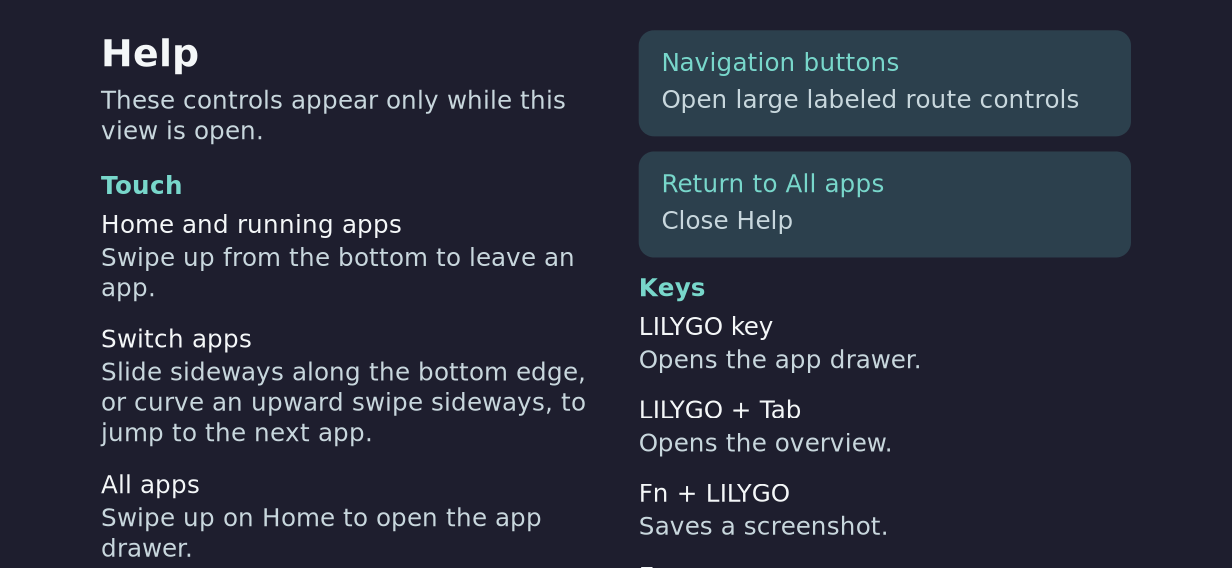
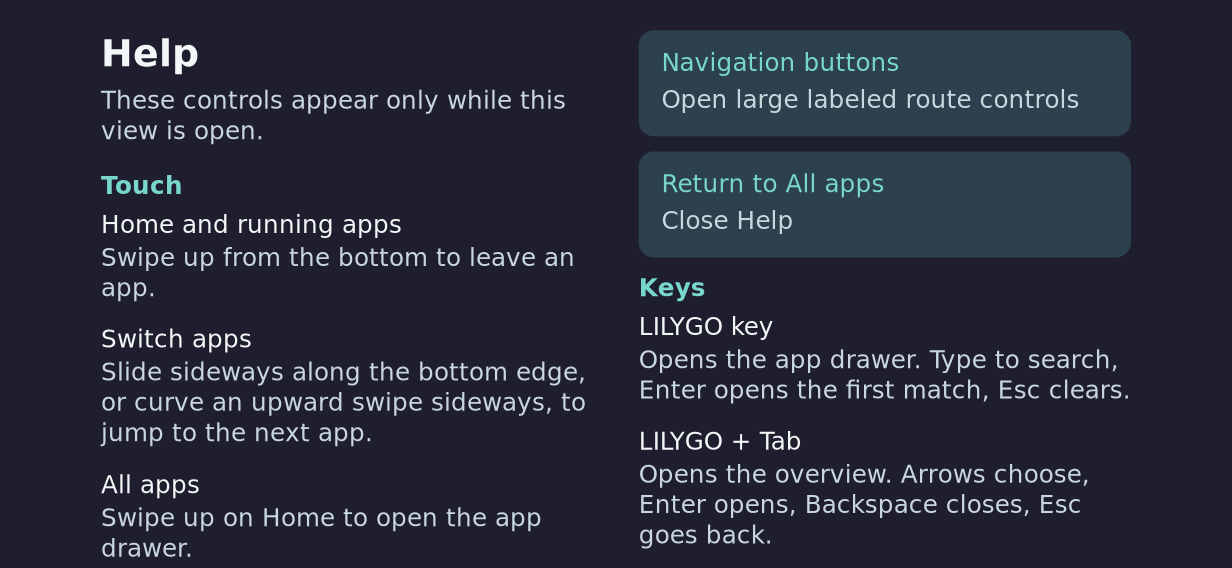
Describe the drawer's key search and the overview's keys in Help

Changed region(s): [[0.5244, 0.5986, 0.9253, 0.9577]]

diff --git a/nix/rust-shell-client/src/help.rs b/nix/rust-shell-client/src/help.rs
@@ -48,8 +48,14 @@ pub const GUIDE: &[(&str, &str)] = &[
         "Keyboard",
         "Swipe up with two fingers at the bottom to show it. Drag its handle down to hide it.",
     ),
-    ("LILYGO key", "Opens the app drawer."),
-    ("LILYGO + Tab", "Opens the overview."),
+    (
+        "LILYGO key",
+        "Opens the app drawer. Type to search, Enter opens the first match, Esc clears.",
+    ),
+    (
+        "LILYGO + Tab",
+        "Opens the overview. Arrows choose, Enter opens, Backspace closes, Esc goes back.",
+    ),
     ("Fn + LILYGO", "Saves a screenshot."),
     (
         "Esc",

diff --git a/docs/blob-inventory.md b/docs/blob-inventory.md
@@ -2241,10 +2241,9 @@ DATA a2c14dbe49dfc069aaa1697a9e4dbd39fac7f4ba4da29228b8651c8683d091d6 docs/evide
 DATA ee7513ae8fcfc031781673cfef7cab622fc831f615df553c9507c0bea46f6b12 docs/evidence/base-keys/board/keys-drawer-open.png
 DATA 10f202da0963924b537d5a768e30ff7a30ae1309fb52204edbbbf8bec4c0ec0b docs/evidence/base-keys/board/keys-drawer-ti.png
 DATA 97ca6176dfc6c5e8a5cdbe45e807840855e652b0ea29cad1c30245d3a4270b0c docs/evidence/base-keys/board/keys-overview.png
-||||||| parent of 12b3c404 (List the gestures and keys in Help as Touch and Keys groups)
-DATA b029a424e430376a5c2585c90fcec5423ecd637ac40c6e88a641be47fa8def00 docs/evidence/help-refresh/host/help-landscape-1232x568-end.png
-DATA 9b2f1e68bfccac9ae19112c283ada130eb49a946910ad5076370ccee931b1ec8 docs/evidence/help-refresh/host/help-landscape-1232x568-top.png
-DATA 2f77209944164ceb779e0f50f5cfd726a5b14adf8eadbfefd87d4aa14dd1bcbd docs/evidence/help-refresh/host/help-portrait-568x1232-end.png
+DATA fac69f720ae8595aa5c6c9e8fe1c404cdc6bbff7da2014b551a3f57ec3055661 docs/evidence/help-refresh/host/help-landscape-1232x568-end.png
+DATA 4df953a8f63c648fb98e4d9b3f3384aa875ad7aeb4f9a0825ff1c264de0f3eb4 docs/evidence/help-refresh/host/help-landscape-1232x568-top.png
+DATA b7b8131dadb638854b5f0d0cadb4cd8d4bf3588ea16c73134f3ff076cd5bce8e docs/evidence/help-refresh/host/help-portrait-568x1232-end.png
 DATA e852cf5374353cfd8f06fab09aa5553df316da619c36590bafd73458bda0934d docs/evidence/help-refresh/host/help-portrait-568x1232-top.png
 ```
 
@@ -4161,14 +4160,13 @@ Native `grim` captures of the key-focused drawer search and the overview under i
[3 lines of base64/hex data omitted]
-||||||| parent of 12b3c404 (List the gestures and keys in Help as Touch and Keys groups)
 ## Help refresh host renders, 2026-10-27
 
 Host renders of Help's Touch and Keys groups from `render_help_refresh`; see `docs/evidence/help-refresh/README.md`.
 
 | Path | Bytes | Class | SHA256 |
 | --- | ---: | --- | --- |
[7 lines of base64/hex data omitted]

diff --git a/openspec/changes/the-help-page-lists-the-gestures-and-keys/design.md b/openspec/changes/the-help-page-lists-the-gestures-and-keys/design.md
@@ -28,12 +28,14 @@ stays true here.
   - App menu on a held drawer tile: `main.rs` `hold_drawer_app_menu` opens the
     menu with the window list, New Window and Add to Home; `app_actions.rs`
     reads desktop actions.
-  - LILYGO, LILYGO + Tab, Fn + LILYGO: `nix/shell.nix` bindings.
+  - LILYGO, LILYGO + Tab, Fn + LILYGO: `nix/shell.nix` bindings, including
+    the `overview` mode; the drawer's key search is `DrawerSearch::key_action`
+    (`the-base-keys-launch-apps-and-drive-the-overview`).
   - Esc: `nix/keyboard-base/keyboard_based.py` (`--escape-back`).
   - Power key: `nix/power-keyd/power_keyd.py` (`short` toggles the display,
     `hold` shows the sheet).
-- **Dropped.** The drawer-search key claims, which the code contradicts (see
-  the proposal's non-goals).
+- **Added after review.** The drawer-search and overview key entries, once
+  the base-keys change implemented them.
 
 ## Risks
 

diff --git a/openspec/changes/the-help-page-lists-the-gestures-and-keys/proposal.md b/openspec/changes/the-help-page-lists-the-gestures-and-keys/proposal.md
@@ -32,13 +32,9 @@ support it. The Help hit regions and the 99 px touch floor do not change.
 ## Non-goals
 
 - No change to any gesture or key. Help only describes them.
-- Not documented: drawer search keys. The brief proposed "LILYGO opens the
-  drawer with search taking the keys; Enter launches the first match; Esc
-  clears, then closes". In `nix/rust-shell-client/src/service_ui.rs`, search
-  takes keys only after its field is tapped, Enter and Esc only dismiss the
-  keyboard and keep the query, and nothing launches a first match. The
-  keyboard-base spec's Enter scenario therefore has no matching code. Help
-  says only that LILYGO opens the drawer.
+- The drawer's key search and the overview's keys come from
+  `the-base-keys-launch-apps-and-drive-the-overview`; Help describes them
+  as that change implements them.
 
 ## Capabilities
 
